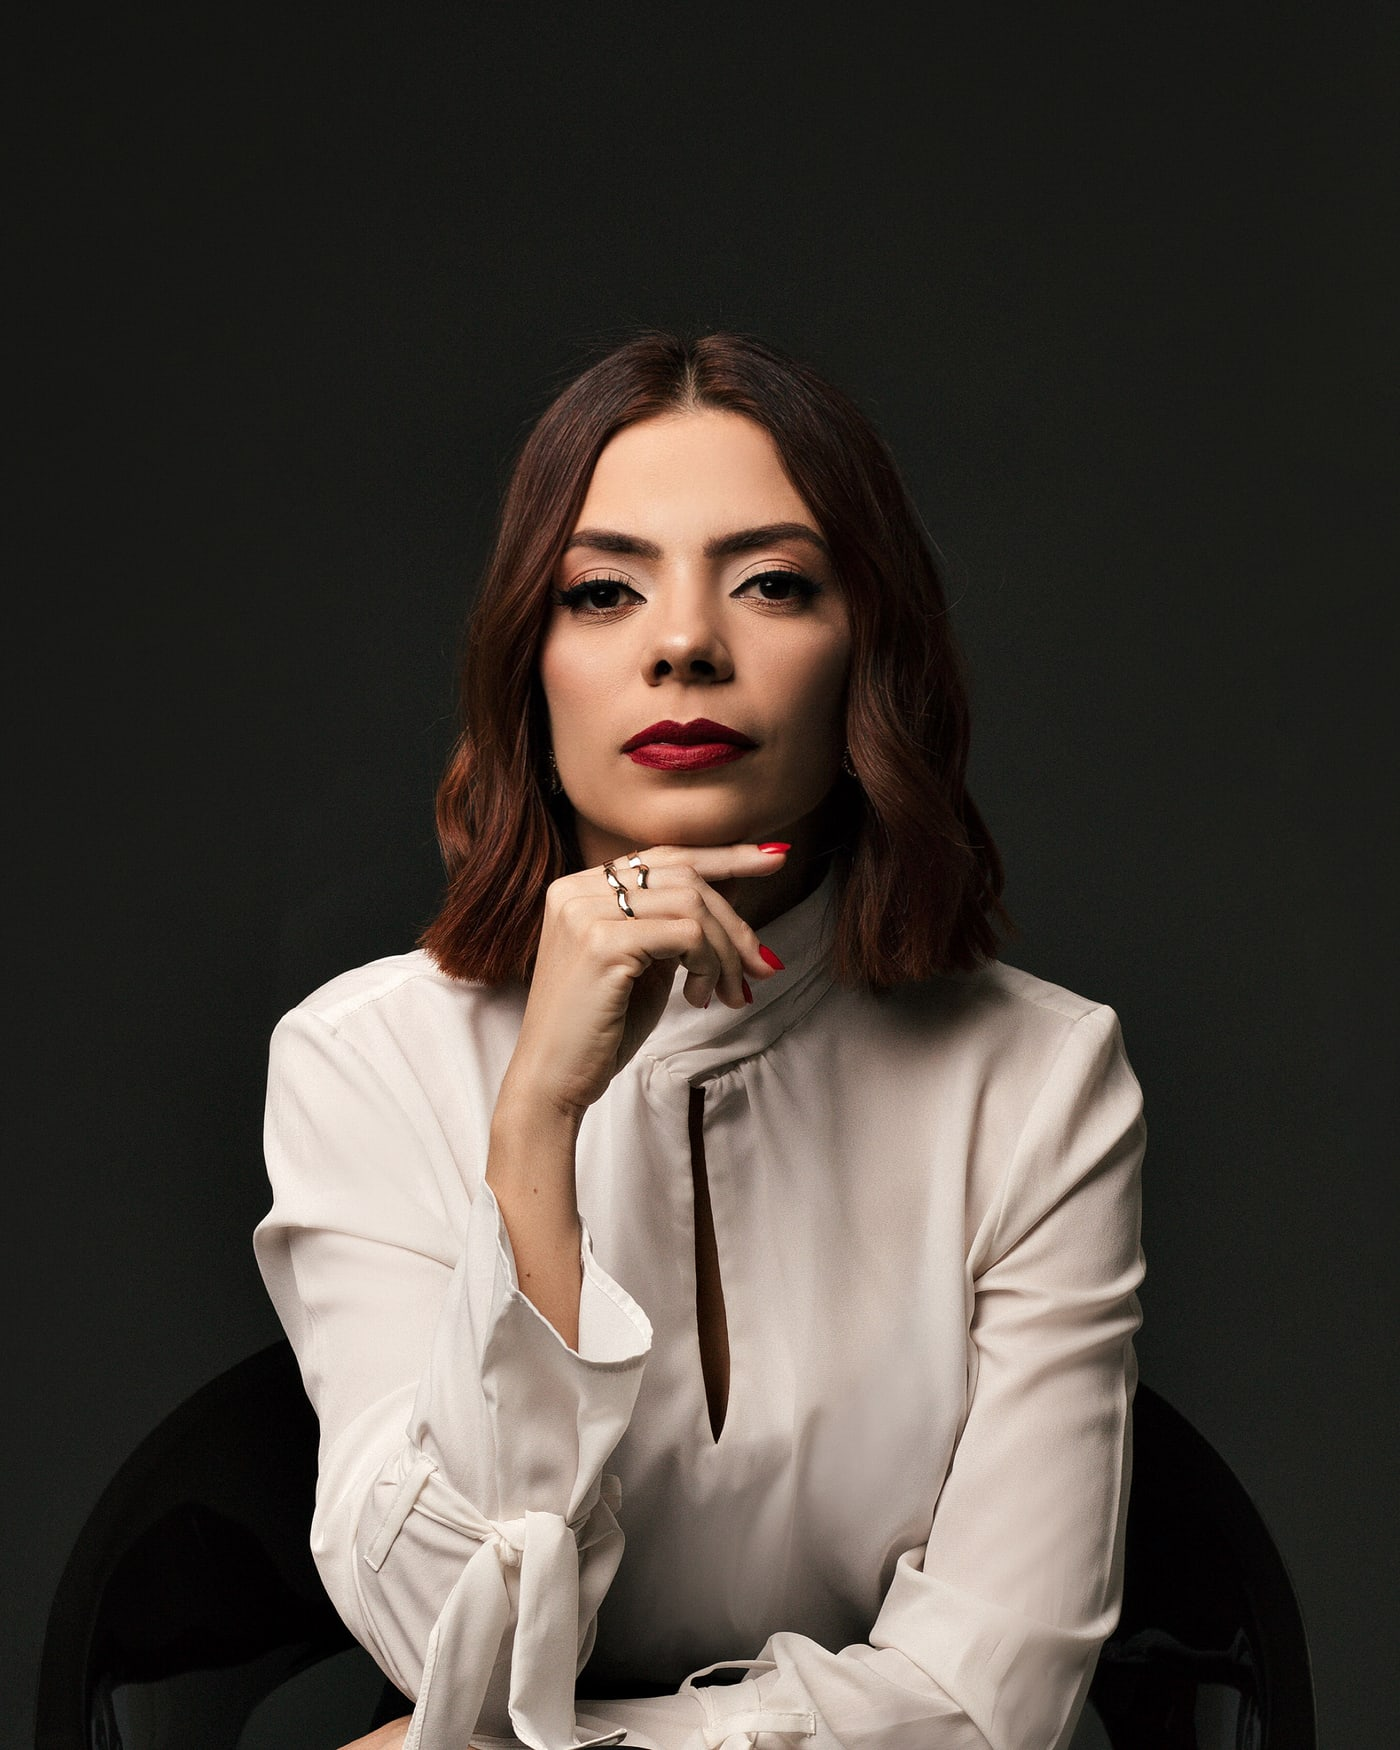
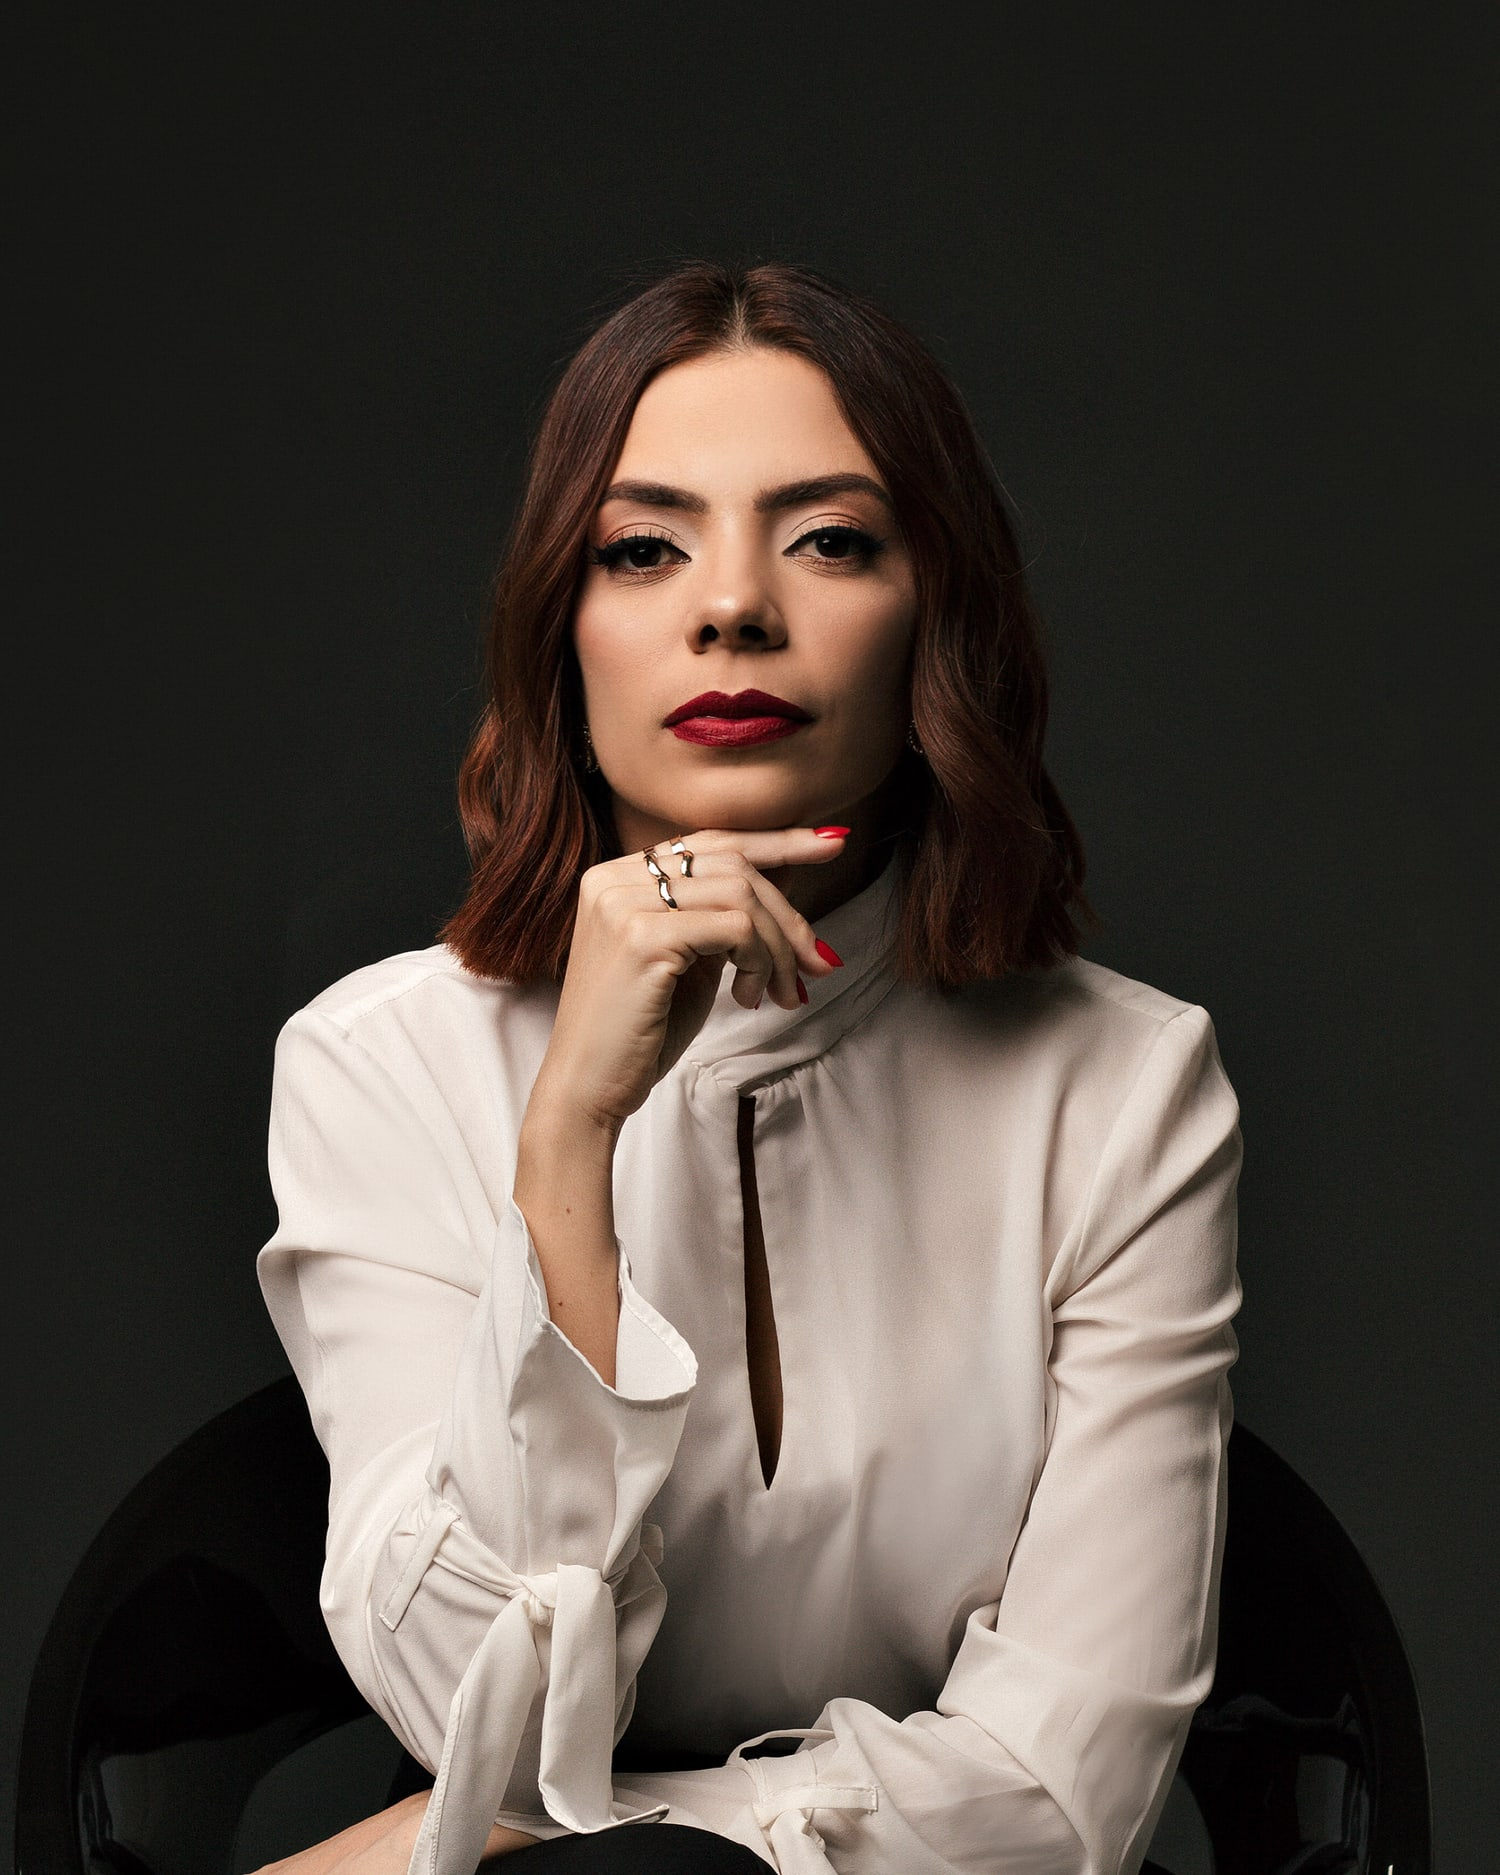
Redesign F3: nº real do WhatsApp, mensagens por botão, faixa de confiança, profundidade
- config.ts: número real (81) 99746-9578 ativado + mensagens do WhatsApp PERSONALIZADAS
  por origem do clique (hero/como-funciona/oferta/final/fab) via waHref(origin)
- Foto do hero: novo crop mais centralizado (menos headroom), maior (600px, coluna direita
  mais larga) e centralizada verticalmente — mais próxima do tamanho da referência
- TrustMarquee: faixa de confiança em movimento horizontal, padrão Ritma (faixa escura,
  R da marca como separador), com SELOS FACTUAIS — sem estrelas/depoimentos (regra OAB
  contra testemunho/promessa + não inventar reviews); assets: r-glyph-osso.svg
- Profundidade nas seções claras (Como funciona, Oferta, Portfolio, FAQ): textura de R
  sutil + relevo/hover nos cards do Portfolio

diff --git a/site/src/config.ts b/site/src/config.ts
@@ -1,17 +1,30 @@
 /**
  * Ponto único de configuração da página (PLANO §3, §4.1, §9).
- * Trocar número/mensagem/label AQUI atualiza todas as instâncias do CTA.
+ * Trocar número/mensagens/label AQUI atualiza todas as instâncias do CTA.
  */
 
-/** Número do WhatsApp — PLACEHOLDER (PERGUNTAS-ABERTAS 8). Formato: DDI+DDD+número, só dígitos. */
-export const WHATSAPP_NUMBER = '5500000000000';
-
-/** Mensagem pré-preenchida do wa.me (PLANO §4.1). Modo diagnóstico, sem dado pessoal. */
-export const WHATSAPP_MESSAGE =
-  'Olá, vim pelo site da Ritma e quero saber se a minha marca ainda pode ser registrada.';
+/** Número do WhatsApp — confirmado pelo Mateus 2026-07-23 (papelaria: (81) 99746-9578).
+ *  Formato: DDI+DDD+número, só dígitos. */
+export const WHATSAPP_NUMBER = '5581997469578';
 
 /**
- * Label único do CTA (mesmo intent, mesmo label, mesmo href em TODAS as instâncias — PLANO §10.9).
+ * Mensagens pré-preenchidas do wa.me, personalizadas por origem do clique (pedido do Mateus
+ * 2026-07-23). Modo diagnóstico, sem dado pessoal e OAB-safe (sem gratuidade/valores/promessa).
+ */
+export const WA_MESSAGES: Record<string, string> = {
+  default: 'Olá! Vim pelo site da Ritma sobre registro de marcas. Tenho interesse em mais informações.',
+  hero: 'Olá! Vim pelo site da Ritma e quero saber se a minha marca ainda pode ser registrada.',
+  comofunciona: 'Olá! Vim pelo site da Ritma e quero entender como funciona o registro da minha marca.',
+  oferta: 'Olá! Vim pelo site da Ritma e quero saber mais sobre o registro da minha marca.',
+  final: 'Olá! Vim pelo site da Ritma e quero verificar se a minha marca ainda está livre.',
+  fab: 'Olá! Vim pelo site da Ritma sobre registro de marcas. Tenho interesse em mais informações.',
+};
+
+/** Compat: mensagem padrão como const única (usada por metadados/legado). */
+export const WHATSAPP_MESSAGE = WA_MESSAGES.default;
+
+/**
+ * Label único do CTA (mesmo intent, mesmo label em TODAS as instâncias — PLANO §10.9).
  * Default OAB-safe ATIVO (PLANO §10.23): sem referência a gratuidade ou valores
  * (Provimento 205/2021 OAB, art. 4º, §2º), até a pergunta 12 confirmar a estrutura.
  */
@@ -38,7 +51,8 @@ export const CTA_ARIA_LABEL = `${CTA_LABEL} pelo WhatsApp`;
 /** URL canônica do site. Default: domínio da Vercel até a pergunta 13 ser respondida. */
 export const SITE_URL = 'https://ritma-registros.vercel.app';
 
-/** href único de conversão (PLANO §3). */
-export function waHref(): string {
-  return `https://wa.me/${WHATSAPP_NUMBER}?text=${encodeURIComponent(WHATSAPP_MESSAGE)}`;
+/** href único de conversão (PLANO §3), com mensagem por origem do clique. */
+export function waHref(origin: string = 'default'): string {
+  const msg = WA_MESSAGES[origin] ?? WA_MESSAGES.default;
+  return `https://wa.me/${WHATSAPP_NUMBER}?text=${encodeURIComponent(msg)}`;
 }
